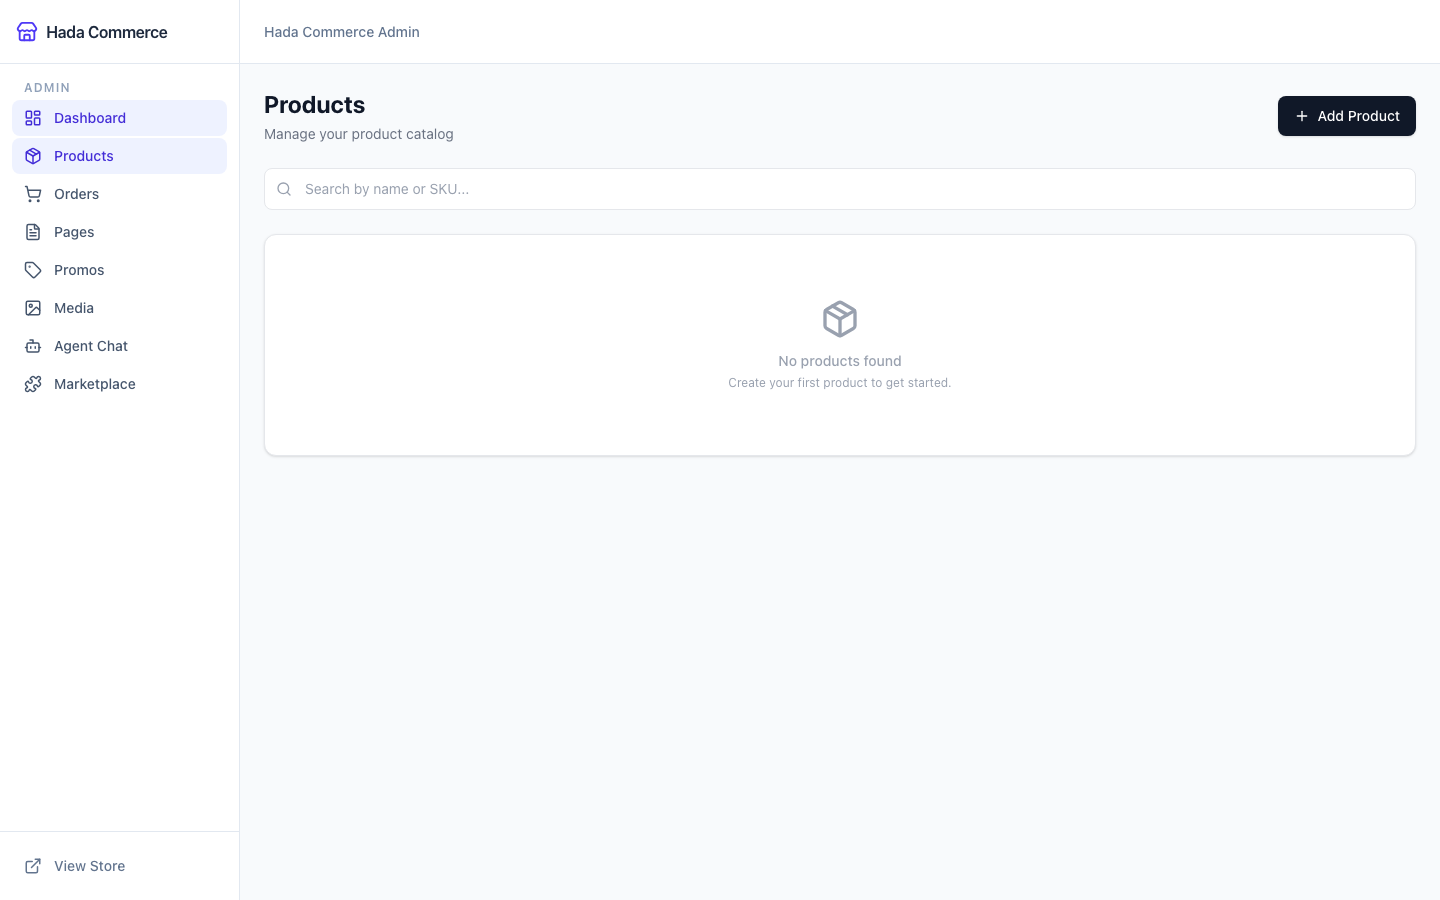
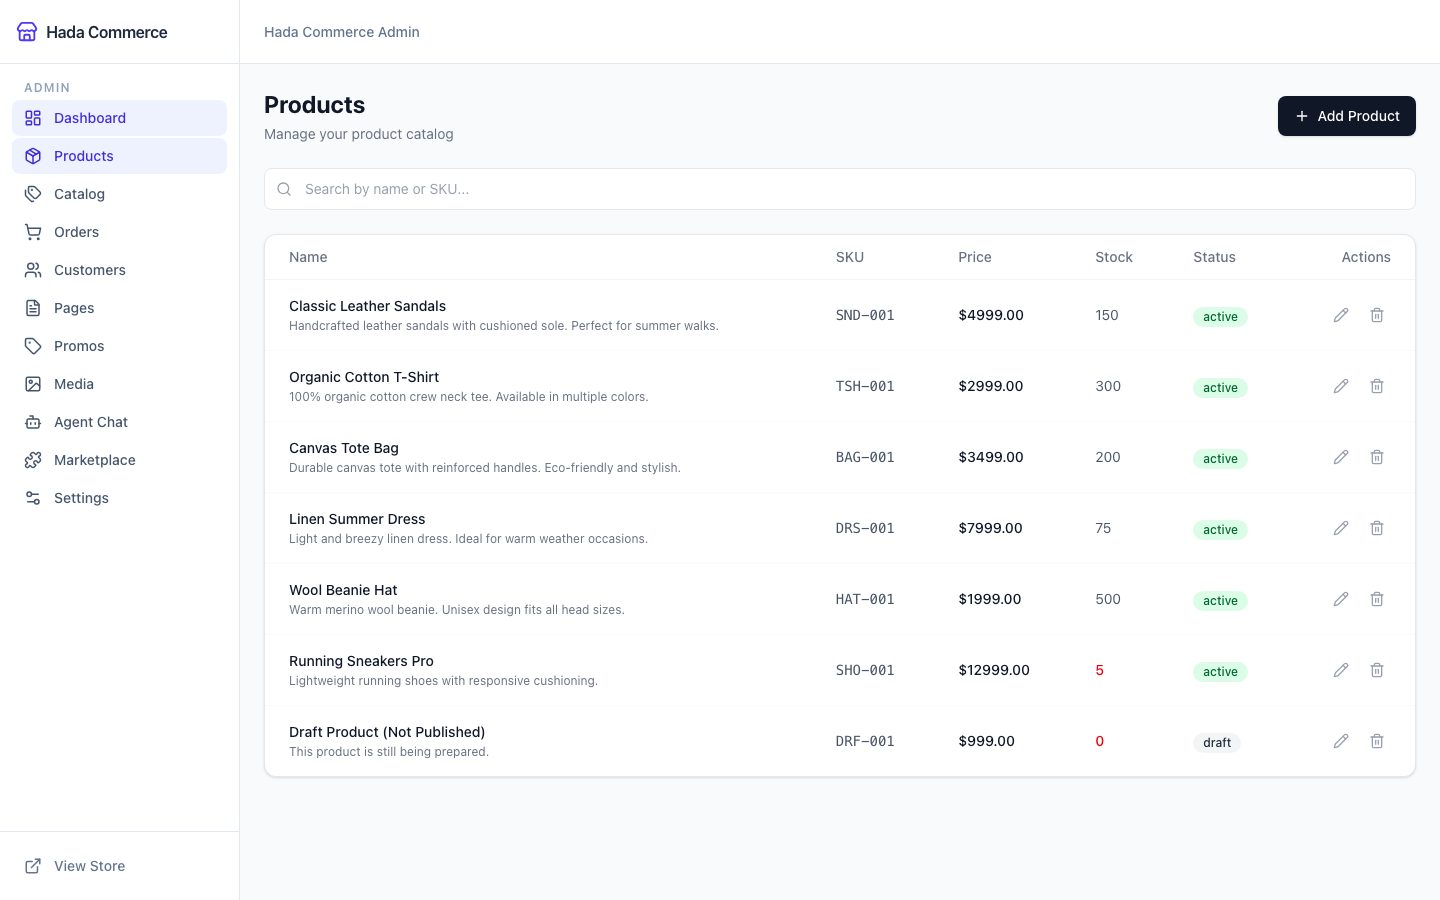
fix: add JSON struct tags to all entities, fix Vite proxy rewrite, update screenshots

diff --git a/frontend/vite.config.ts b/frontend/vite.config.ts
@@ -7,7 +7,10 @@ export default defineConfig({
   server: {
     port: 5173,
     proxy: {
-      '/api': 'http://localhost:8080',
+      '/api/v1': {
+        target: 'http://localhost:8080',
+        rewrite: (path) => path.replace(/^\/api\/v1/, ''),
+      },
     },
   },
 })

diff --git a/backend/internal/marketplace/marketplace.go b/backend/internal/marketplace/marketplace.go
@@ -19,30 +19,30 @@ const (
 
 // Plugin represents a plugin available in the marketplace.
 type Plugin struct {
-	ID          kernel.PluginID
-	Name        string // unique slug: "reviews", "loyalty", etc.
-	DisplayName string
-	Description string
-	Author      string
-	Icon        string         // URL or icon name
-	Category    PluginCategory // "official", "community", "custom"
-	Tags        []string
-	CreatedAt   time.Time
-	UpdatedAt   time.Time
+	ID          kernel.PluginID `json:"id"`
+	Name        string          `json:"name"`         // unique slug
+	DisplayName string          `json:"display_name"`
+	Description string          `json:"description"`
+	Author      string          `json:"author"`
+	Icon        string          `json:"icon"`         // URL or icon name
+	Category    PluginCategory  `json:"category"`     // "official", "community", "custom"
+	Tags        []string        `json:"tags"`
+	CreatedAt   time.Time       `json:"created_at"`
+	UpdatedAt   time.Time       `json:"updated_at"`
 }
 
 // PluginVersion is a specific release of a plugin.
 type PluginVersion struct {
-	ID             kernel.PluginVersionID
-	PluginID       kernel.PluginID
-	Version        string // semver: "1.0.0"
-	Changelog      string
-	Permissions    []string // e.g. ["products:read", "orders:read"]
-	ManifestJSON   string   // the full manifest.json content
-	FrontendURL    string   // URL to the plugin's frontend bundle
-	BackendEntry   string   // Go plugin entry point or binary path
-	MinPlatformVer string   // minimum hada-commerce version
-	CreatedAt      time.Time
+	ID             kernel.PluginVersionID `json:"id"`
+	PluginID       kernel.PluginID        `json:"plugin_id"`
+	Version        string                 `json:"version"`
+	Changelog      string                 `json:"changelog"`
+	Permissions    []string               `json:"permissions"`
+	ManifestJSON   string                 `json:"manifest_json"`
+	FrontendURL    string                 `json:"frontend_url"`
+	BackendEntry   string                 `json:"backend_entry"`
+	MinPlatformVer string                 `json:"min_platform_ver"`
+	CreatedAt      time.Time              `json:"created_at"`
 }
 
 // Manifest describes plugin capabilities (parsed from ManifestJSON).

diff --git a/backend/internal/catalog/catalog.go b/backend/internal/catalog/catalog.go
@@ -8,14 +8,14 @@ import (
 
 // Category represents a product category in a tenant's catalog.
 type Category struct {
-	ID          kernel.CategoryID
-	TenantID    kernel.TenantID
-	Name        string
-	Slug        string
-	ParentID    *kernel.CategoryID
-	Description string
-	CreatedAt   time.Time
-	UpdatedAt   time.Time
+	ID          kernel.CategoryID  `json:"id"`
+	TenantID    kernel.TenantID    `json:"tenant_id"`
+	Name        string             `json:"name"`
+	Slug        string             `json:"slug"`
+	ParentID    *kernel.CategoryID `json:"parent_id"`
+	Description string             `json:"description"`
+	CreatedAt   time.Time          `json:"created_at"`
+	UpdatedAt   time.Time          `json:"updated_at"`
 }
 
 // IsRoot returns true if this category has no parent.
@@ -25,16 +25,16 @@ func (c *Category) IsRoot() bool {
 
 // Collection represents a curated or automatic grouping of products.
 type Collection struct {
-	ID          kernel.CollectionID
-	TenantID    kernel.TenantID
-	Name        string
-	Slug        string
-	Description string
-	ProductIDs  []kernel.ProductID
-	IsAutomatic bool
-	Rules       map[string]any
-	CreatedAt   time.Time
-	UpdatedAt   time.Time
+	ID          kernel.CollectionID `json:"id"`
+	TenantID    kernel.TenantID    `json:"tenant_id"`
+	Name        string             `json:"name"`
+	Slug        string             `json:"slug"`
+	Description string             `json:"description"`
+	ProductIDs  []kernel.ProductID `json:"product_ids"`
+	IsAutomatic bool               `json:"is_automatic"`
+	Rules       map[string]any     `json:"rules"`
+	CreatedAt   time.Time          `json:"created_at"`
+	UpdatedAt   time.Time          `json:"updated_at"`
 }
 
 // ContainsProduct checks if a product is in this collection.

diff --git a/backend/internal/product/product.go b/backend/internal/product/product.go
@@ -17,19 +17,19 @@ const (
 
 // Product is the core entity for sellable items.
 type Product struct {
-	ID          kernel.ProductID
-	TenantID    kernel.TenantID
-	Name        string
-	Description string
-	Price       kernel.Money
-	SKU         string
-	Images      []string
-	CategoryID  kernel.CategoryID
-	Tags        []string
-	Status      Status
-	Stock       int
-	CreatedAt   time.Time
-	UpdatedAt   time.Time
+	ID          kernel.ProductID  `json:"id"`
+	TenantID    kernel.TenantID   `json:"tenant_id"`
+	Name        string            `json:"name"`
+	Description string            `json:"description"`
+	Price       kernel.Money      `json:"price"`
+	SKU         string            `json:"sku"`
+	Images      []string          `json:"images"`
+	CategoryID  kernel.CategoryID `json:"category_id"`
+	Tags        []string          `json:"tags"`
+	Status      Status            `json:"status"`
+	Stock       int               `json:"stock"`
+	CreatedAt   time.Time         `json:"created_at"`
+	UpdatedAt   time.Time         `json:"updated_at"`
 }
 
 // Activate transitions the product to active status.

diff --git a/backend/internal/order/order.go b/backend/internal/order/order.go
@@ -49,15 +49,15 @@ type OrderItem struct {
 
 // Order is the aggregate root for a purchase.
 type Order struct {
-	ID              kernel.OrderID
-	TenantID        kernel.TenantID
-	CustomerID      kernel.CustomerID
-	Items           []OrderItem
-	Status          OrderStatus
-	TotalAmount     kernel.Money
-	ShippingAddress Address
-	CreatedAt       time.Time
-	UpdatedAt       time.Time
+	ID              kernel.OrderID    `json:"id"`
+	TenantID        kernel.TenantID   `json:"tenant_id"`
+	CustomerID      kernel.CustomerID `json:"customer_id"`
+	Items           []OrderItem       `json:"items"`
+	Status          OrderStatus       `json:"status"`
+	TotalAmount     kernel.Money      `json:"total_amount"`
+	ShippingAddress Address           `json:"shipping_address"`
+	CreatedAt       time.Time         `json:"created_at"`
+	UpdatedAt       time.Time         `json:"updated_at"`
 }
 
 // CanTransitionTo checks if the status transition is valid.

diff --git a/backend/internal/customer/customer.go b/backend/internal/customer/customer.go
@@ -18,14 +18,14 @@ type Address struct {
 
 // Customer represents a commerce customer entity.
 type Customer struct {
-	ID        kernel.CustomerID
-	TenantID  kernel.TenantID
-	Email     kernel.Email
-	Name      string
-	Phone     string
-	Addresses []Address
-	CreatedAt time.Time
-	UpdatedAt time.Time
+	ID        kernel.CustomerID `json:"id"`
+	TenantID  kernel.TenantID   `json:"tenant_id"`
+	Email     kernel.Email      `json:"email"`
+	Name      string            `json:"name"`
+	Phone     string            `json:"phone"`
+	Addresses []Address         `json:"addresses"`
+	CreatedAt time.Time         `json:"created_at"`
+	UpdatedAt time.Time         `json:"updated_at"`
 }
 
 // DefaultAddress returns the customer's default address, or nil if none.

diff --git a/backend/internal/kernel/money.go b/backend/internal/kernel/money.go
@@ -2,8 +2,8 @@ package kernel
 
 // Money represents a monetary amount in the smallest currency unit (cents).
 type Money struct {
-	Amount   int64  // in cents
-	Currency string // ISO 4217, e.g. "USD", "EUR"
+	Amount   int64  `json:"amount"`   // in cents
+	Currency string `json:"currency"` // ISO 4217, e.g. "USD", "EUR"
 }
 
 func NewMoney(cents int64, currency string) Money {

diff --git a/backend/internal/analytics/analyticsinfra/postgres.go b/backend/internal/analytics/analyticsinfra/postgres.go
@@ -83,7 +83,7 @@ func (r *PostgresRepo) GetDashboardStats(ctx context.Context, tenantID kernel.Te
 
 	// Pages pending review.
 	if err := r.db.QueryRowContext(ctx,
-		`SELECT COUNT(*) FROM storefront_pages WHERE tenant_id = $1 AND status = 'pending_review'`, tid,
+		`SELECT COUNT(*) FROM pages WHERE tenant_id = $1 AND status = 'pending_review'`, tid,
 	).Scan(&stats.PendingPages); err != nil {
 		return nil, fmt.Errorf("counting pending pages: %w", err)
 	}